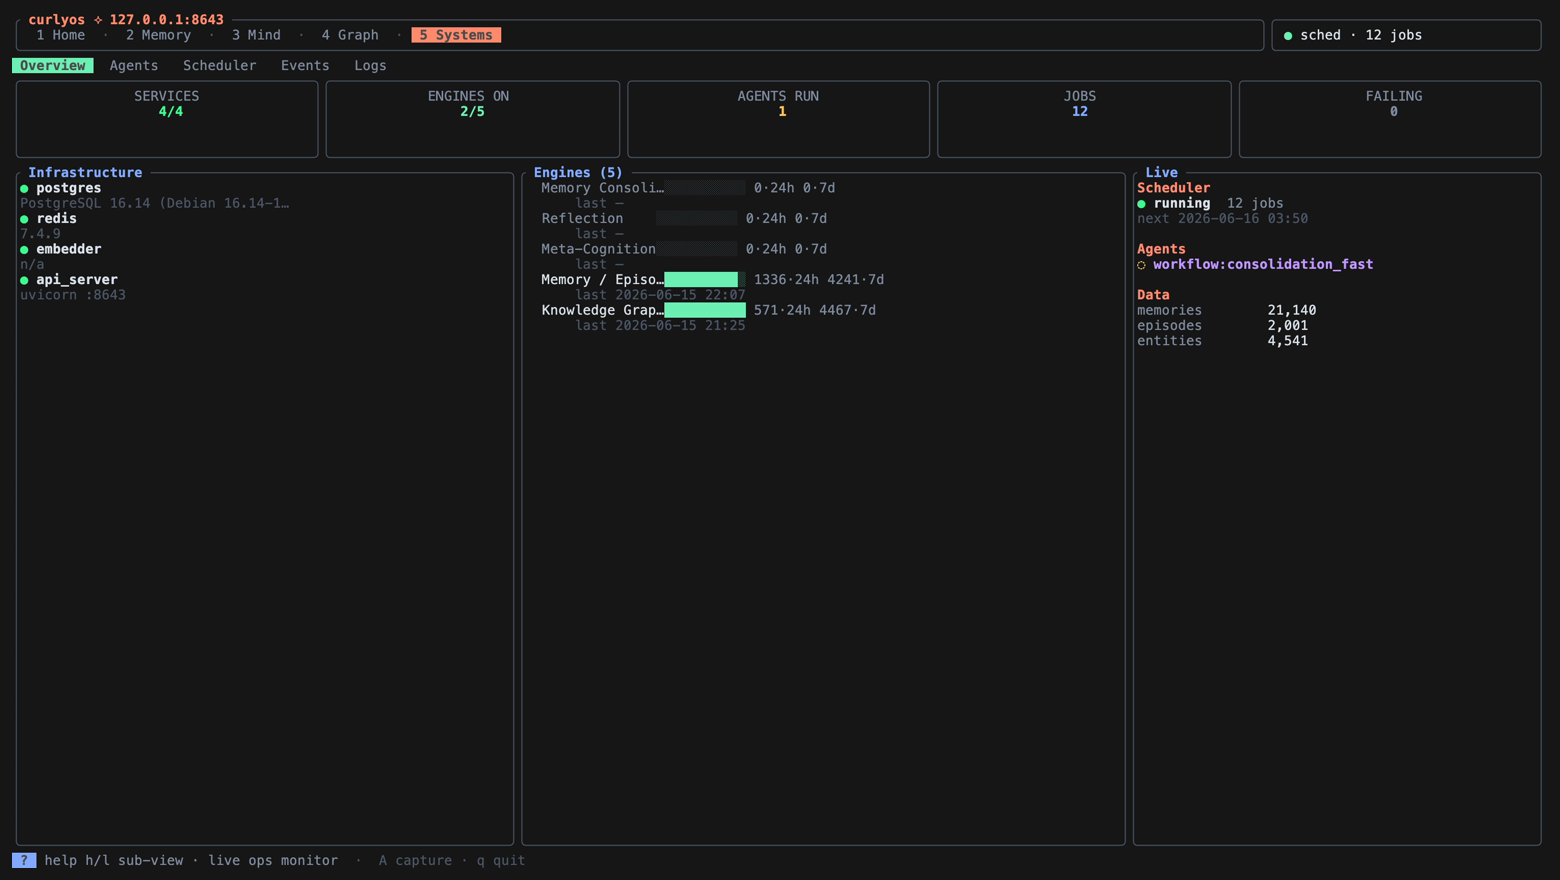
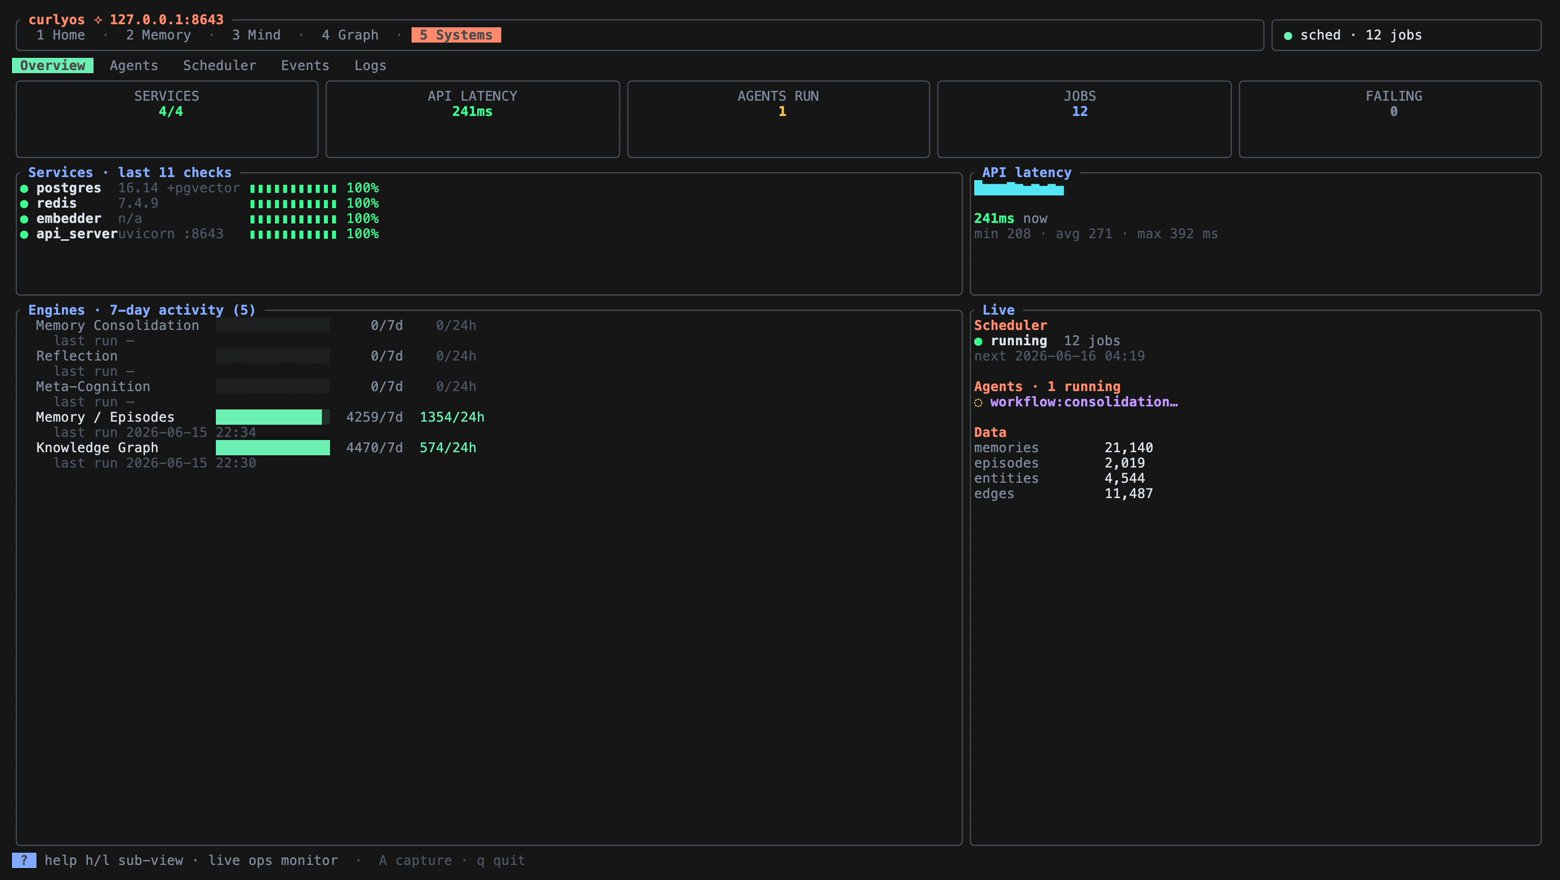
Systems Overview: fix engine overlap, add live service monitoring
- Fix the engines panel: labels/bars/counts no longer collide or clip. Each
  engine is one aligned row (fixed-width label + 7-day activity bar + counts)
  plus a dim last-run line.
- Make Overview a live service monitor instead of a sparse list:
  - per-service uptime strips (coloured ▮ history from the rolling 3s polls)
    with version + uptime %.
  - an API-latency sparkline (now/min/avg/max), measured round-trip in the
    worker and kept in a 90-sample ring buffer.
  - API LATENCY replaces the ENGINES-ON KPI card.
  - engines bar chart + scheduler/agents/data column fill the page.

Adds SysSample history + latency to the Systems response path.

diff --git a/src/ui.rs b/src/ui.rs
@@ -1275,17 +1275,18 @@ fn draw_sys_overview(f: &mut Frame, app: &App, area: Rect) {
     };
     let rows = Layout::default()
         .direction(Direction::Vertical)
-        .constraints([Constraint::Length(6), Constraint::Min(0)])
+        .constraints([Constraint::Length(6), Constraint::Length(9), Constraint::Min(0)])
         .split(area);
 
-    // KPI cards
+    // ── KPI cards ─────────────────────────────────────────────────────────
     let up = sys.infrastructure.iter().filter(|i| i.ok).count();
-    let active_eng = sys.engines.iter().filter(|e| e.runs_24h > 0).count();
     let running = app.agent_runs.iter().filter(|r| r.status.as_deref() == Some("running")).count();
     let failing = sys.scheduler.failing.len();
+    let latency = app.sys_history.last().map(|s| s.latency_ms).unwrap_or(0);
+    let lat_col = if latency > 1500 { RED } else if latency > 600 { AMBER } else { GREEN };
     let cards: [(&str, String, Color); 5] = [
         ("SERVICES", format!("{}/{}", up, sys.infrastructure.len()), if up == sys.infrastructure.len() { GREEN } else { RED }),
-        ("ENGINES ON", format!("{}/{}", active_eng, sys.engines.len()), MINT),
+        ("API LATENCY", format!("{latency}ms"), lat_col),
         ("AGENTS RUN", fmt_int(running as i64), if running > 0 { AMBER } else { DIM }),
         ("JOBS", fmt_int(sys.scheduler.jobs), PERI),
         ("FAILING", fmt_int(failing as i64), if failing > 0 { RED } else { DIM }),
@@ -1303,37 +1304,68 @@ fn draw_sys_overview(f: &mut Frame, app: &App, area: Rect) {
         );
     }
 
-    let cols = Layout::default()
+    // ── services (uptime strips) + latency graph ─────────────────────────
+    let midcols = Layout::default()
         .direction(Direction::Horizontal)
-        .constraints([Constraint::Percentage(33), Constraint::Percentage(40), Constraint::Percentage(27)])
+        .constraints([Constraint::Percentage(62), Constraint::Percentage(38)])
         .split(rows[1]);
 
-    // infrastructure
-    let mut infra: Vec<Line> = vec![];
+    let mut svc: Vec<Line> = vec![];
     for i in &sys.infrastructure {
-        infra.push(Line::from(vec![
-            Span::styled("  ● ", Style::default().fg(if i.ok { GREEN } else { RED })),
-            Span::styled(format!("{:<10}", i.name), Style::default().fg(TEXT).add_modifier(Modifier::BOLD)),
-        ]));
-        infra.push(Line::from(Span::styled(format!("      {}", truncate(i.detail.as_deref().unwrap_or(""), 32)), Style::default().fg(FAINT))));
+        let (strip, pct) = uptime_strip(&app.sys_history, &i.name, 26);
+        let mut spans = vec![
+            Span::styled("● ", Style::default().fg(if i.ok { GREEN } else { RED })),
+            Span::styled(fit(&i.name, 10), Style::default().fg(TEXT).bold()),
+            Span::styled(fit(&svc_version(&i.name, i.detail.as_deref()), 16), Style::default().fg(FAINT)),
+        ];
+        spans.extend(strip);
+        spans.push(Span::styled(format!(" {pct:>3.0}%"), Style::default().fg(if pct >= 99.9 { GREEN } else { AMBER })));
+        svc.push(Line::from(spans));
     }
-    f.render_widget(Paragraph::new(infra).block(panel("Infrastructure")).wrap(Wrap { trim: true }), cols[0]);
+    let checks = app.sys_history.len();
+    f.render_widget(
+        Paragraph::new(svc).block(panel(&format!("Services · last {checks} checks"))),
+        midcols[0],
+    );
 
-    // engines as activity bars
+    // latency sparkline
+    let lats: Vec<u64> = app.sys_history.iter().map(|s| s.latency_ms).collect();
+    let (lmin, lmax, lavg) = stats_u64(&lats);
+    let lat_lines = vec![
+        Line::from(Span::styled(spark(&lats), Style::default().fg(CYAN))),
+        Line::from(""),
+        Line::from(vec![
+            Span::styled(format!("{}ms", lats.last().copied().unwrap_or(0)), Style::default().fg(lat_col).bold()),
+            Span::styled(" now", Style::default().fg(DIM)),
+        ]),
+        Line::from(Span::styled(format!("min {lmin} · avg {lavg} · max {lmax} ms", ), Style::default().fg(FAINT))),
+    ];
+    f.render_widget(Paragraph::new(lat_lines).block(panel("API latency")), midcols[1]);
+
+    // ── engines (bar chart) + scheduler/live ─────────────────────────────
+    let botcols = Layout::default()
+        .direction(Direction::Horizontal)
+        .constraints([Constraint::Percentage(62), Constraint::Percentage(38)])
+        .split(rows[2]);
+
     let emax = sys.engines.iter().map(|e| e.runs_7d).max().unwrap_or(1).max(1);
     let mut eng: Vec<Line> = vec![];
     for e in &sys.engines {
         let active = e.runs_24h > 0;
+        let col = if active { MINT } else { FAINT };
         eng.push(Line::from(vec![
-            Span::styled(format!("  {:<14}", truncate(e.label.as_deref().unwrap_or(&e.name), 14)), Style::default().fg(if active { TEXT } else { DIM })),
-            Span::styled(bar_str(e.runs_7d, emax, 10), Style::default().fg(if active { MINT } else { FAINT })),
-            Span::styled(format!(" {}·24h {}·7d", e.runs_24h, e.runs_7d), Style::default().fg(DIM)),
+            Span::styled(format!("  {}", fit(e.label.as_deref().unwrap_or(&e.name), 22)), Style::default().fg(if active { TEXT } else { DIM })),
+            Span::styled(bar_str(e.runs_7d, emax, 14), Style::default().fg(col)),
+            Span::styled(format!(" {:>5}/7d", e.runs_7d), Style::default().fg(DIM)),
+            Span::styled(format!("  {:>3}/24h", e.runs_24h), Style::default().fg(if active { MINT } else { FAINT })),
         ]));
-        eng.push(Line::from(Span::styled(format!("      last {}", fmt_date(e.last_run.as_deref())), Style::default().fg(FAINT))));
+        eng.push(Line::from(Span::styled(
+            format!("    last run {}", e.last_run.as_deref().map(|d| fmt_date(Some(d))).unwrap_or_else(|| "—".into())),
+            Style::default().fg(FAINT),
+        )));
     }
-    f.render_widget(Paragraph::new(eng).block(panel(&format!("Engines ({})", sys.engines.len()))), cols[1]);
+    f.render_widget(Paragraph::new(eng).block(panel(&format!("Engines · 7-day activity ({})", sys.engines.len()))), botcols[0]);
 
-    // scheduler + agents + data
     let mut right: Vec<Line> = vec![head("Scheduler")];
     right.push(Line::from(vec![
         Span::styled("  ● ", Style::default().fg(if sys.scheduler.running { GREEN } else { RED })),
@@ -1342,14 +1374,14 @@ fn draw_sys_overview(f: &mut Frame, app: &App, area: Rect) {
     ]));
     right.push(Line::from(Span::styled(format!("    next {}", fmt_date(sys.scheduler.next_due.as_deref())), Style::default().fg(FAINT))));
     right.push(Line::from(""));
-    right.push(head("Agents"));
+    right.push(head(&format!("Agents · {running} running")));
     if running == 0 {
         right.push(Line::from(Span::styled("  ● idle", Style::default().fg(DIM))));
     } else {
-        for r in app.agent_runs.iter().filter(|r| r.status.as_deref() == Some("running")).take(4) {
+        for r in app.agent_runs.iter().filter(|r| r.status.as_deref() == Some("running")).take(3) {
             right.push(Line::from(vec![
                 Span::styled("  ◌ ", Style::default().fg(AMBER)),
-                Span::styled(r.agent.clone().unwrap_or_default(), Style::default().fg(PURPLE).bold()),
+                Span::styled(truncate(&r.agent.clone().unwrap_or_default(), 22), Style::default().fg(PURPLE).bold()),
             ]));
         }
     }
@@ -1358,7 +1390,75 @@ fn draw_sys_overview(f: &mut Frame, app: &App, area: Rect) {
     right.push(kv("memories", &fmt_int(sys.stats.memories)));
     right.push(kv("episodes", &fmt_int(sys.stats.episodes)));
     right.push(kv("entities", &fmt_int(sys.stats.knowledge_entities)));
-    f.render_widget(Paragraph::new(right).block(panel("Live")).wrap(Wrap { trim: true }), cols[2]);
+    right.push(kv("edges", &fmt_int(sys.stats.knowledge_edges)));
+    f.render_widget(Paragraph::new(right).block(panel("Live")).wrap(Wrap { trim: true }), botcols[1]);
+}
+
+/// A coloured uptime strip for one service from the poll history (oldest→newest).
+fn uptime_strip(history: &[crate::app::SysSample], name: &str, width: usize) -> (Vec<Span<'static>>, f64) {
+    let recent: Vec<&crate::app::SysSample> = {
+        let mut v: Vec<&crate::app::SysSample> = history.iter().rev().take(width).collect();
+        v.reverse();
+        v
+    };
+    let mut spans = Vec::with_capacity(recent.len());
+    let (mut up, mut total) = (0usize, 0usize);
+    for s in &recent {
+        match s.services.iter().find(|(n, _)| n == name) {
+            Some((_, true)) => {
+                up += 1;
+                total += 1;
+                spans.push(Span::styled("▮", Style::default().fg(GREEN)));
+            }
+            Some((_, false)) => {
+                total += 1;
+                spans.push(Span::styled("▮", Style::default().fg(RED)));
+            }
+            None => spans.push(Span::styled("·", Style::default().fg(FAINT))),
+        }
+    }
+    if spans.is_empty() {
+        spans.push(Span::styled("· waiting", Style::default().fg(FAINT)));
+    }
+    let pct = if total > 0 { up as f64 / total as f64 * 100.0 } else { 100.0 };
+    (spans, pct)
+}
+
+/// Compact a service's detail string into a short version label.
+fn svc_version(name: &str, detail: Option<&str>) -> String {
+    let d = detail.unwrap_or("").trim();
+    if d.is_empty() {
+        return "—".into();
+    }
+    if name.contains("postgres") {
+        // "PostgreSQL 16.14 (Debian …) … +pgvector" → "16.14 +pgvector"
+        let ver = d.split_whitespace().nth(1).unwrap_or("");
+        let vec = if d.contains("pgvector") { " +pgvector" } else { "" };
+        format!("{ver}{vec}")
+    } else {
+        truncate(d, 16)
+    }
+}
+
+fn stats_u64(xs: &[u64]) -> (u64, u64, u64) {
+    if xs.is_empty() {
+        return (0, 0, 0);
+    }
+    let min = *xs.iter().min().unwrap();
+    let max = *xs.iter().max().unwrap();
+    let avg = xs.iter().sum::<u64>() / xs.len() as u64;
+    (min, max, avg)
+}
+
+/// Truncate-or-pad a string to exactly `n` display columns.
+fn fit(s: &str, n: usize) -> String {
+    let len = s.chars().count();
+    if len > n {
+        let t: String = s.chars().take(n.saturating_sub(1)).collect();
+        format!("{t}…")
+    } else {
+        format!("{s}{}", " ".repeat(n - len))
+    }
 }
 
 fn draw_sys_scheduler(f: &mut Frame, app: &mut App, area: Rect) {

diff --git a/src/app.rs b/src/app.rs
@@ -73,6 +73,15 @@ impl Tab {
     }
 }
 
+/// One sample of system health, recorded each `/api/systems` poll.
+pub struct SysSample {
+    pub latency_ms: u64,
+    /// (service name, up) for each infrastructure service this poll
+    pub services: Vec<(String, bool)>,
+}
+
+pub const SYS_HISTORY_CAP: usize = 90;
+
 /// A scrollable list selection wrapping ratatui's `ListState`.
 #[derive(Default)]
 pub struct Sel {
@@ -224,6 +233,8 @@ pub struct App {
     // systems
     pub sys_sub: usize,
     pub systems: Option<Systems>,
+    /// rolling history of /api/systems polls, for uptime strips + latency graph
+    pub sys_history: Vec<SysSample>,
     pub scheduler: Option<Scheduler>,
     pub scheduled_jobs: Vec<ScheduledJob>,
     pub sched_sel: Sel,
@@ -283,6 +294,7 @@ impl App {
             frame: 0,
             sys_sub: 0,
             systems: None,
+            sys_history: Vec::new(),
             scheduler: None,
             scheduled_jobs: vec![],
             sched_sel: Sel::default(),
@@ -482,7 +494,15 @@ impl App {
                 self.recall_sel.first();
                 self.recall_hits = v;
             }
-            Resp::Systems(s) => self.systems = Some(*s),
+            Resp::Systems(s, latency_ms) => {
+                let services = s.infrastructure.iter().map(|i| (i.name.clone(), i.ok)).collect();
+                self.sys_history.push(SysSample { latency_ms, services });
+                if self.sys_history.len() > SYS_HISTORY_CAP {
+                    let drop = self.sys_history.len() - SYS_HISTORY_CAP;
+                    self.sys_history.drain(0..drop);
+                }
+                self.systems = Some(*s);
+            }
             Resp::Scheduler(s) => self.scheduler = Some(*s),
             Resp::Events(v) => {
                 self.events = v;

diff --git a/src/worker.rs b/src/worker.rs
@@ -6,6 +6,7 @@
 use crate::api::*;
 use std::sync::mpsc::{Receiver, Sender};
 use std::thread;
+use std::time::Instant;
 
 pub enum Req {
     Home,
@@ -51,7 +52,8 @@ pub enum Resp {
     Reflections(Vec<Report>),
     Graph(Box<Graph>),
     Recall(Vec<RecallHit>),
-    Systems(Box<Systems>),
+    /// systems payload + measured round-trip latency in ms
+    Systems(Box<Systems>, u64),
     Scheduler(Box<Scheduler>),
     Events(Vec<Event>),
     LogSources(Vec<LogSource>),
@@ -95,7 +97,13 @@ fn handle(c: &Client, req: Req) -> Resp {
         Req::Reflections => wrap(c.reflections(), Resp::Reflections),
         Req::Graph(limit) => wrap(c.graph(limit), |g| Resp::Graph(Box::new(g))),
         Req::Recall { query, mode, k } => wrap(c.recall(&query, &mode, k), Resp::Recall),
-        Req::Systems => wrap(c.systems(), |s| Resp::Systems(Box::new(s))),
+        Req::Systems => {
+            let t = Instant::now();
+            match c.systems() {
+                Ok(s) => Resp::Systems(Box::new(s), t.elapsed().as_millis() as u64),
+                Err(e) => Resp::Error(format!("{e}")),
+            }
+        }
         Req::Scheduler => wrap(c.scheduler(), |s| Resp::Scheduler(Box::new(s))),
         Req::Events(n) => wrap(c.events(n), Resp::Events),
         Req::LogSources => wrap(c.log_sources(), Resp::LogSources),

diff --git a/README.md b/README.md
@@ -75,7 +75,7 @@ gauges, and sparklines where they add insight.
 | 2 | **Memory** | **Browse** (FTS search, validity/status filter chips, paginate, invalidate) · **Episodes** (timeline + derived-memory detail, extraction ratio) · **Recall** (semantic fast/deep/divergent, score bars) |
 | 3 | **Mind** | A self-model monitor — **Overview** (who I am · how I think · what I'm focused on · current chapter · latest insight) · **Self** (identity facts + principles) · **Focus** (mental-load gauge + focus bars) · **Story** (current chapter + timeline) · **Insights** (reflections) |
 | 4 | **Graph** | Knowledge entities by degree + neighbor explorer; entities/edges/density/types header |
-| 5 | **Systems** | An ops monitor — **Overview** (health KPIs, infra, engine activity bars, live scheduler/agents) · **Agents** (status breakdown, step inspector, **cancel** running) · **Scheduler** (task manager: **toggle / run / delete / new** your jobs + read-only system cron) · **Events** (categorized feed — Agents/Goals/Knowledge/Memory/Cognition/Decisions, filter with `c`) · **Logs** (per-source tail) |
+| 5 | **Systems** | An ops monitor — **Overview** (health KPIs, per-service **uptime strips** + live **API-latency** sparkline, engine 7-day activity bars, scheduler/agents/data) · **Agents** (status breakdown, step inspector, **cancel** running) · **Scheduler** (task manager: **toggle / run / delete / new** your jobs + read-only system cron) · **Events** (categorized feed — Agents/Goals/Knowledge/Memory/Cognition/Decisions, filter with `c`) · **Logs** (per-source tail) |
 
 The header always shows the connected host, scheduler status, job count, and any failures.
 **Home and Systems auto-refresh every 3s** so you can watch things move without pressing `r`.
@@ -89,7 +89,9 @@ The header always shows the connected host, scheduler status, job count, and any
 ### Mind · Focus
 ![Mind — Focus](docs/mind-focus.png)
 
-### Systems · Overview — an ops monitor
+### Systems · Overview — a live service monitor
+Per-service uptime strips and an API-latency sparkline (both built from the rolling 3s health polls), engine 7-day activity bars, and live scheduler/agents/data.
+
 ![Systems — Overview](docs/sys-overview.png)
 
 ### Systems · Scheduler — manage your scheduled jobs